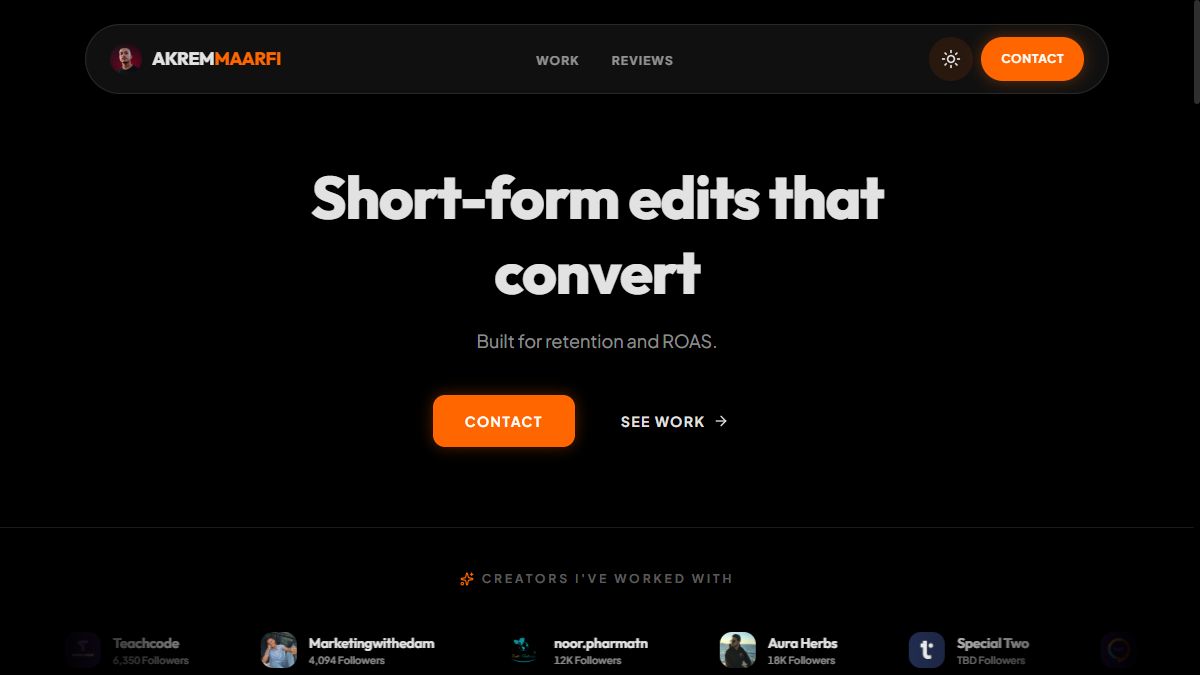
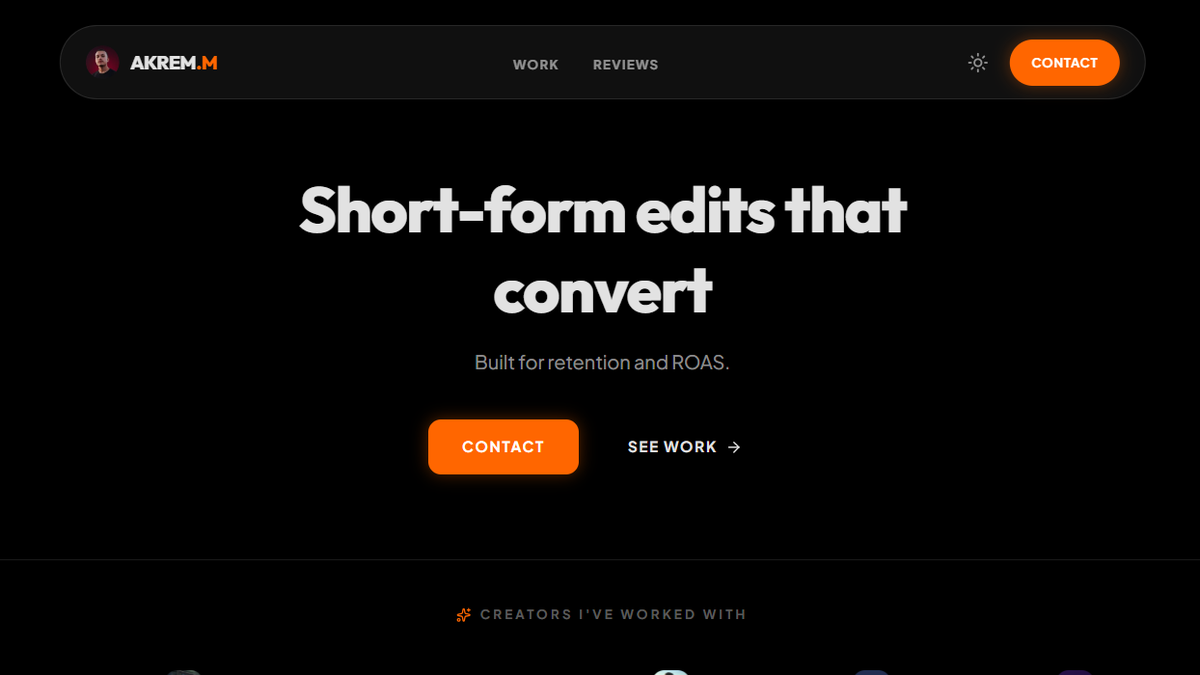
Refactor code structure for improved readability and maintainability

diff --git a/src/components/ScrollToTop.tsx b/src/components/ScrollToTop.tsx
@@ -1,20 +1,42 @@
-import { useEffect } from 'react'
+import { useEffect, useLayoutEffect, useRef } from 'react'
 import { useLocation, useNavigationType } from 'react-router-dom'
 
+const positions = new Map<string, number>()
+
 /**
- * Jumps to the top of the page when navigating to a new route — React Router
- * doesn't do this by default. Skipped on back/forward navigation (POP) so the
- * browser's native scroll restoration can put the page back where it was.
+ * Handles scroll position across route changes, since React Router doesn't
+ * do this by default and the browser's native scroll restoration doesn't
+ * work reliably with client-side navigation (see main.tsx).
+ *
+ * - Forward navigation (PUSH/REPLACE): jump to the top of the new page.
+ * - Back/forward navigation (POP): restore the scroll position the page
+ *   had when the user left it, so e.g. going back from a project page
+ *   doesn't dump you at the top of the homepage.
  */
 export function ScrollToTop() {
-  const { pathname } = useLocation()
+  const { pathname, key } = useLocation()
   const navigationType = useNavigationType()
+  const lastKey = useRef(key)
+
+  // Save the outgoing page's scroll position before the new route paints.
+  useLayoutEffect(() => {
+    return () => {
+      positions.set(lastKey.current, window.scrollY)
+    }
+  })
 
   useEffect(() => {
-    if (navigationType !== 'POP') {
+    lastKey.current = key
+
+    if (navigationType === 'POP') {
+      const saved = positions.get(key)
+      if (saved !== undefined) {
+        window.scrollTo(0, saved)
+      }
+    } else {
       window.scrollTo(0, 0)
     }
-  }, [pathname, navigationType])
+  }, [pathname, key, navigationType])
 
   return null
 }

diff --git a/src/data/content.ts b/src/data/content.ts
@@ -391,7 +391,8 @@ export const projects = [
     description:
       "A browser-based tool that overlays a logo onto batches of photos entirely client-side — nothing is uploaded, everything processes locally.",
     stack: ["HTML", "CSS", "JavaScript"],
-    image: "/assets/logoverlay.png",
+    image: "/assets/logoverlay-light.png",
+    imageDark: "/assets/logoverlay-dark.png",
     imageAlt:
       "Logo Overlay Studio interface showing batch settings and file upload panels",
     link: "https://logoverlay.vercel.app/",
@@ -408,9 +409,9 @@ export const projects = [
     image: "/assets/video-editor-portfolio-light.png",
     imageDark: "/assets/video-editor-portfolio-dark.png",
     imageAlt: "Video editor portfolio website homepage",
-    link: "https://video-editor-portfolio-blush-six.vercel.app/",
+    link: "https://akrem-m-portfolio.vercel.app/",
     githubLink: "https://github.com/AchrefMaarfi/video-editor-portfolio",
-    demoLink: "https://video-editor-portfolio-blush-six.vercel.app/",
+    demoLink: "https://akrem-m-portfolio.vercel.app/",
     hasRealImage: true,
   },
   // {

diff --git a/src/main.tsx b/src/main.tsx
@@ -7,7 +7,11 @@ import { ScrollToTop } from './components/ScrollToTop.tsx'
 import { PlanItProject } from './pages/PlanItProject.tsx'
 
 if ('scrollRestoration' in window.history) {
-  window.history.scrollRestoration = 'auto'
+  // Take scroll restoration over from the browser: with client-side routing
+  // there's no real page reload for it to key off, so its "auto" restore
+  // fires before the new route finishes rendering and misses the mark.
+  // ScrollToTop restores it manually once content has laid out.
+  window.history.scrollRestoration = 'manual'
 }
 
 createRoot(document.getElementById('root')!).render(
